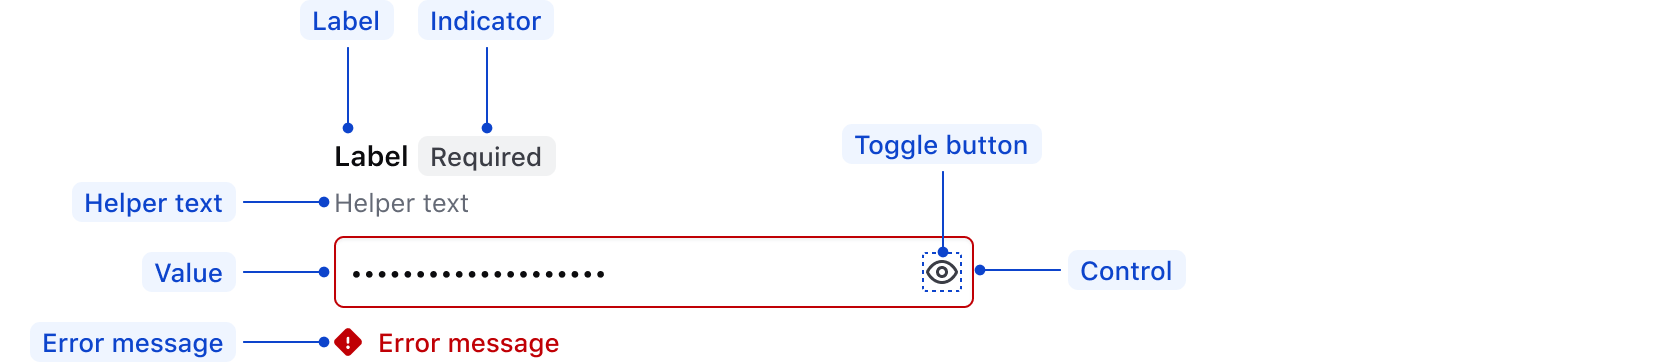
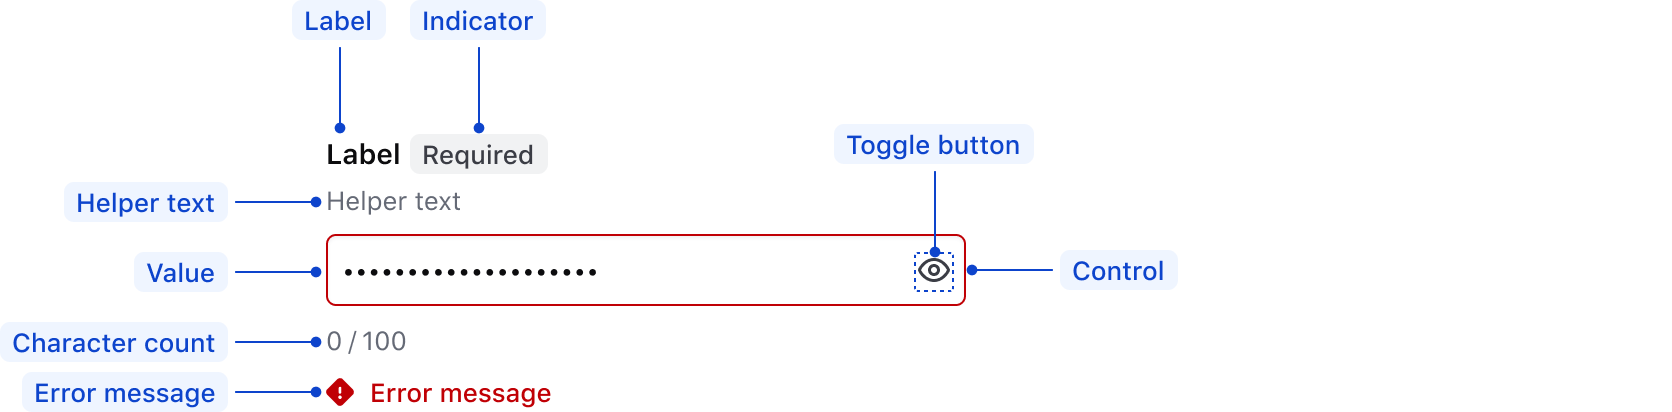
Updating primitive guidelines and images with new property

diff --git a/website/docs/components/form/primitives/partials/guidelines/overview.md b/website/docs/components/form/primitives/partials/guidelines/overview.md
@@ -7,6 +7,8 @@ Form Primitives are used to compose form fields.
 - `Form::Legend` is the legend associated to the fieldset
 - `Form::Field` is the generic container for control, label, helper text and error messaging
 - `Form::Fieldset` is the generic container to group multiple fields with label, helper text, and error messaging
+- `Form::CharacterCount` is optionally used to display the number of characters in a field, the maximum number of characters allowed, or a custom message communicating the relationship between the count and the maximum length.
+    - `CharacterCount` is only used in fields that accept text values (TextInput, Textarea, MaskedInput, etc).
 
 We use Form Primitives as the building blocks for the “field” and “group” controls. While we recommend using our pre-defined “field” and “group” controls because they provide built-in accessibility support, you can use the Form Primitives to implement custom layouts or controls as necessary.
 

diff --git a/website/docs/components/form/primitives/partials/guidelines/guidelines.md b/website/docs/components/form/primitives/partials/guidelines/guidelines.md
@@ -9,6 +9,17 @@
 
 - Use helper text to give the user extra details about the data you’re asking them to input, e.g., formatting requirements such as MM-DD-YYYY.
 
+### Form::CharacterCount
+
+Use a character count when there is a maximum number of characters a field can accept before being rendered invalid. The default character count displays the number of characters entered by the end user, compared to the maximum allowed length of the input, though more custom implementations are supported via the exposed `count` and `maxLength` hooks.
+
+-> Include examples of different custom implementations
+
+!!! Dont
+
+A character count is not relevant for form components that don’t accept text as an input type.
+!!!
+
 ### Form::Error
 
 - Error messages should provide the user with enough context to guide them in resolving the error.
